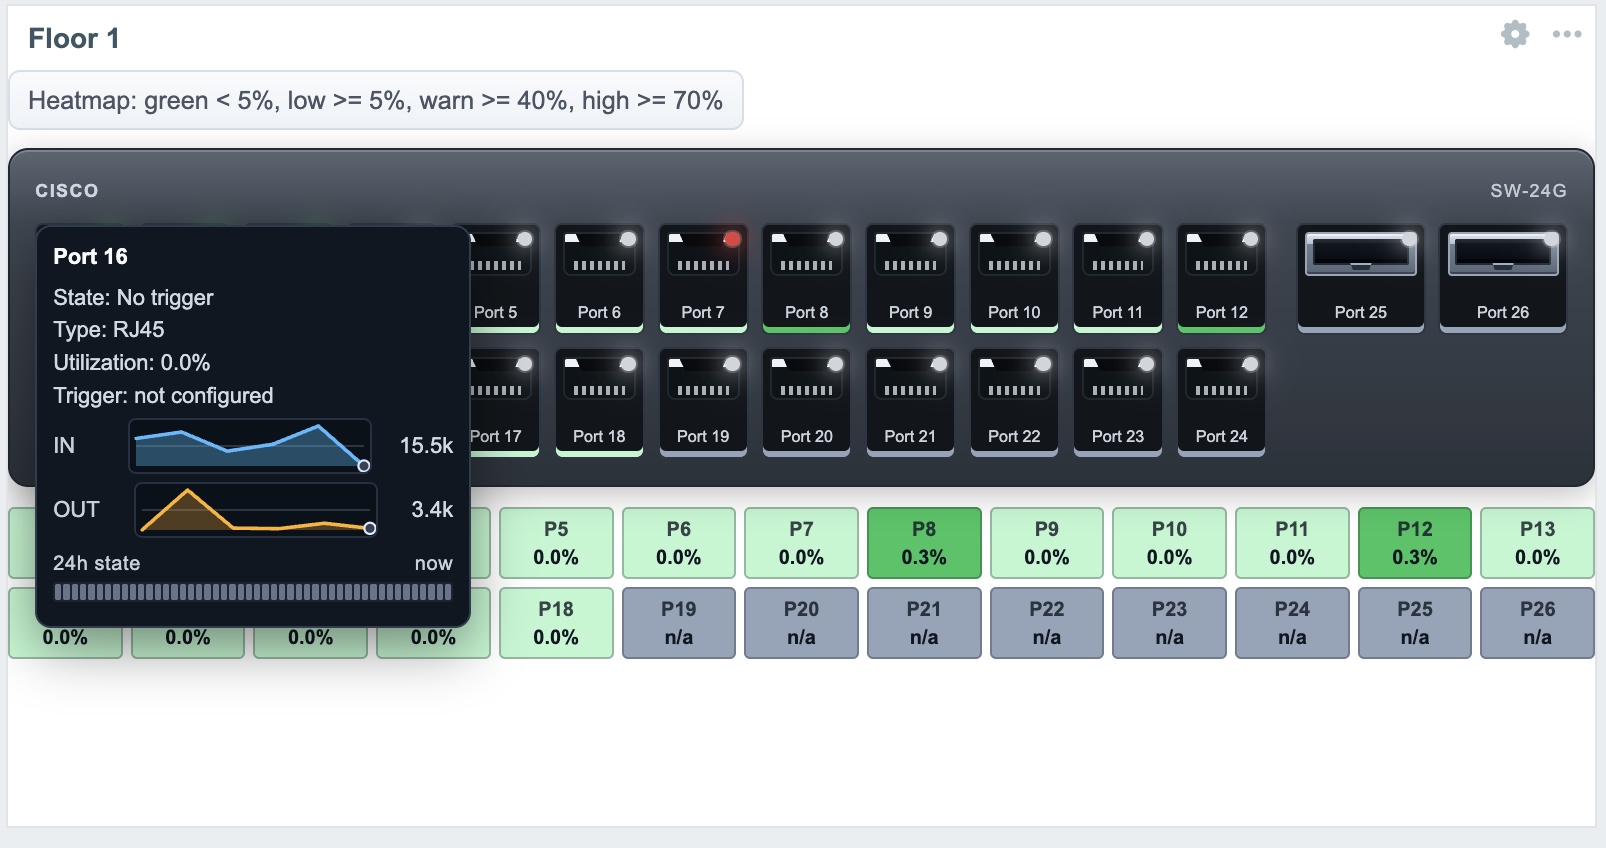
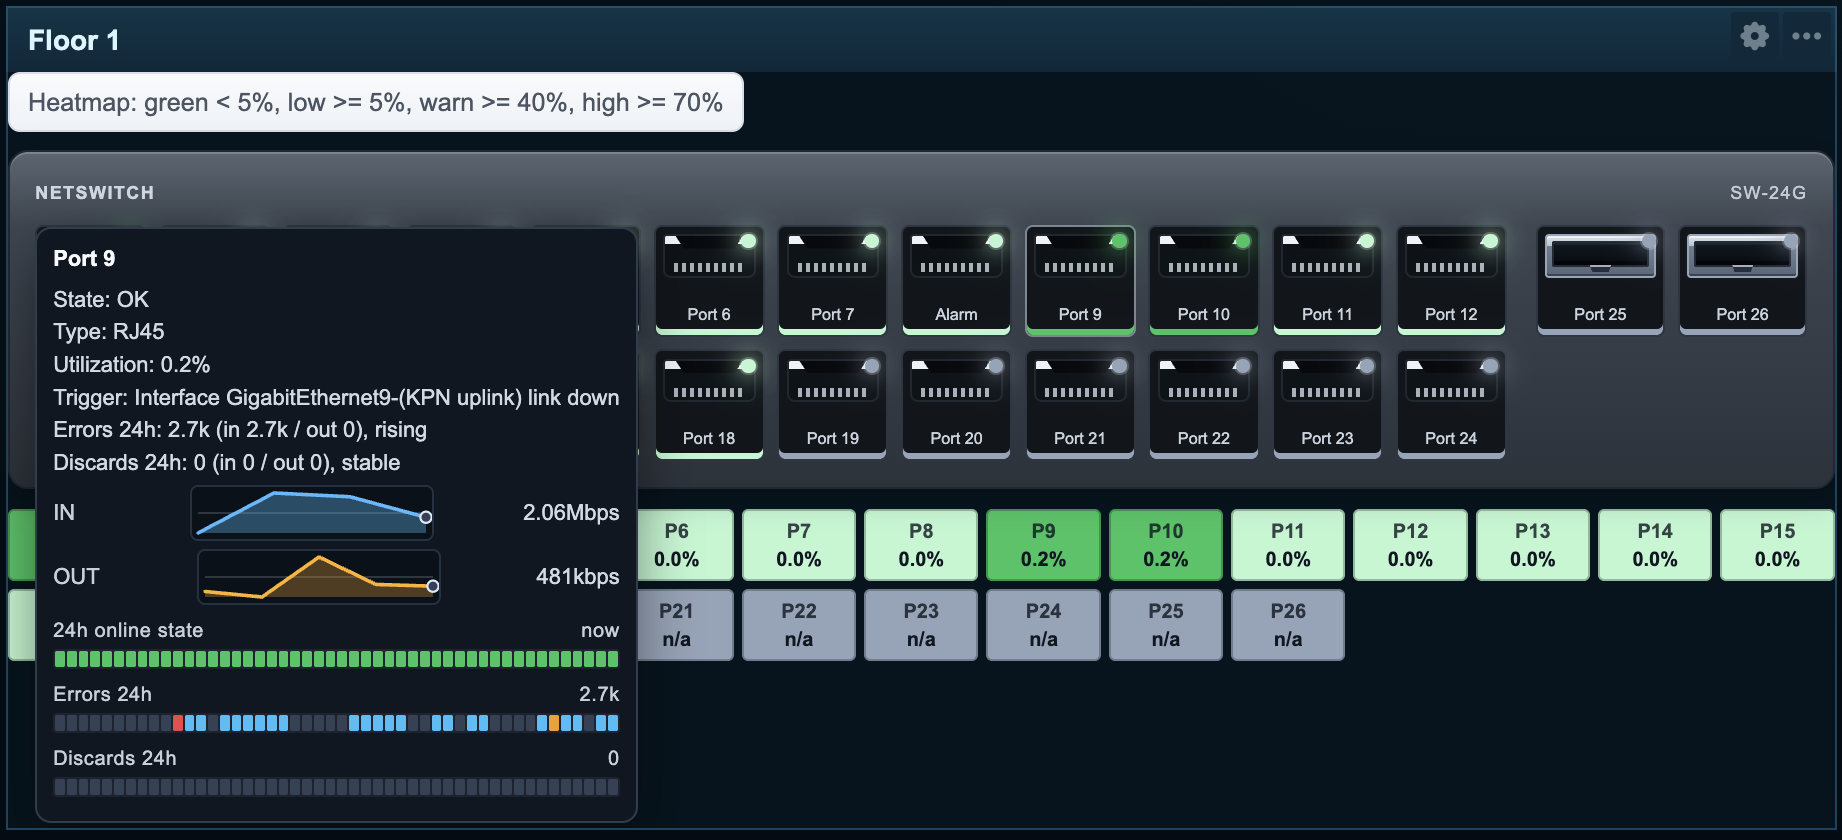
fix: restore overlay toggle behavior and update widget image

diff --git a/assets/js/widget.edit.js b/assets/js/widget.edit.js
@@ -636,7 +636,7 @@
 
 		insertSection('traffic', 'Traffic Patterns', 'Traffic in item pattern');
 		insertSection('errors', 'Error and Discard Patterns', 'Errors in item pattern');
-		insertSection('util', 'Utilization Settings', 'Port color mode');
+		insertSection('util', 'Utilization Settings', 'Show utilization overlay');
 		insertSection('layout', 'Device Layout', 'Brand');
 	}
 

diff --git a/views/widget.view.php b/views/widget.view.php
@@ -103,7 +103,6 @@ if (!empty($data['access_denied'])) {
 
 $columns = max(1, (int) ($data['ports_per_row'] ?? 12));
 $row_count = max(1, (int) ($data['row_count'] ?? 1));
-$port_color_mode = (int) ($data['port_color_mode'] ?? 0);
 $utilization_overlay_enabled = (int) ($data['utilization_overlay_enabled'] ?? 1);
 $show_utilization_overlay = ($utilization_overlay_enabled === 1);
 $traffic_unit_mode = (int) ($data['traffic_unit_mode'] ?? 0);
@@ -158,6 +157,7 @@ $make_card = static function(array $port) use ($show_utilization_overlay, $util_
 	$util_color = isset($port['utilization_color']) && is_string($port['utilization_color'])
 		? (string) $port['utilization_color']
 		: $util_color_for($utilization);
+	$display_color = $show_utilization_overlay ? $util_color : $active_color;
 
 	if (empty($port['has_trigger'])) {
 		$state = _('No trigger');
@@ -361,10 +361,10 @@ $make_card = static function(array $port) use ($show_utilization_overlay, $util_
 						->addClass('port24-led')
 						->setAttribute(
 							'style',
-							'background: '.$active_color.';'
+							'background: '.$display_color.';'
 							.'box-shadow:0 0 0 1px rgba(255,255,255,.2),'
-							.'0 0 calc(12px * var(--port24-scale)) '.$active_color.','
-							.'0 0 calc(20px * var(--port24-scale)) '.$active_color.';'
+							.'0 0 calc(12px * var(--port24-scale)) '.$display_color.','
+							.'0 0 calc(20px * var(--port24-scale)) '.$display_color.';'
 						)
 				)
 				->addItem((new CDiv($port['name']))->addClass('port24-label'));
@@ -508,12 +508,12 @@ $make_card = static function(array $port) use ($show_utilization_overlay, $util_
 
 	$card
 		->addClass('port24-card')
-		->setAttribute('style', '--port-color: '.$active_color.';')
+		->setAttribute('style', '--port-color: '.$display_color.';')
 		->setAttribute('data-port-name', (string) $port['name']);
 	if ($show_utilization_overlay) {
 		$card
 			->addClass('port24-heatmap')
-			->setAttribute('style', '--port-color: '.$active_color.'; --util-c: '.$util_color.';');
+			->setAttribute('style', '--port-color: '.$display_color.'; --util-c: '.$util_color.';');
 	}
 
 	if (!empty($port['hostid'])) {

diff --git a/actions/WidgetView.php b/actions/WidgetView.php
@@ -44,14 +44,6 @@ class WidgetView extends CControllerDashboardWidgetView {
 		$out_discards_pattern = $this->sanitizeItemPattern((string) ($this->fields_values['out_discards_item_pattern'] ?? self::DEFAULT_OUT_DISCARDS_PATTERN), self::DEFAULT_OUT_DISCARDS_PATTERN);
 		$speed_pattern = substr($speed_pattern, 0, self::MAX_SPEED_PATTERN_LENGTH);
 		$speed_pattern_alt = $this->getAlternateSpeedPattern($speed_pattern);
-		$port_color_mode_raw = $this->fields_values['port_color_mode'] ?? 0;
-		if (is_array($port_color_mode_raw)) {
-			$port_color_mode_raw = reset($port_color_mode_raw);
-		}
-		$port_color_mode_int = (int) $port_color_mode_raw;
-		$port_color_mode = ($port_color_mode_int === 1 || (string) $port_color_mode_raw === 'utilization')
-			? 1
-			: 0;
 		$utilization_overlay_enabled = ((int) ($this->fields_values['utilization_overlay_enabled'] ?? 1)) === 1 ? 1 : 0;
 		$util_low_threshold = $this->clampFloat($this->extractFloat($this->fields_values['utilization_low_threshold'] ?? 5.0), 0.0, 100.0);
 		$util_warn_threshold = $this->clampFloat($this->extractFloat($this->fields_values['utilization_warn_threshold'] ?? 40.0), 0.0, 100.0);
@@ -101,7 +93,6 @@ class WidgetView extends CControllerDashboardWidgetView {
 					'in_discards_item_pattern' => $in_discards_pattern,
 					'out_discards_item_pattern' => $out_discards_pattern,
 					'speed_item_pattern' => $speed_pattern,
-				'port_color_mode' => $port_color_mode,
 				'utilization_overlay_enabled' => $utilization_overlay_enabled,
 				'utilization_low_threshold' => $util_low_threshold,
 				'utilization_warn_threshold' => $util_warn_threshold,
@@ -286,7 +277,6 @@ class WidgetView extends CControllerDashboardWidgetView {
 				'in_discards_item_pattern' => $in_discards_pattern,
 				'out_discards_item_pattern' => $out_discards_pattern,
 				'speed_item_pattern' => $speed_pattern,
-				'port_color_mode' => $port_color_mode,
 				'utilization_overlay_enabled' => $utilization_overlay_enabled,
 				'utilization_low_threshold' => $util_low_threshold,
 				'utilization_warn_threshold' => $util_warn_threshold,

diff --git a/views/widget.edit.php b/views/widget.edit.php
@@ -18,7 +18,6 @@ $form->addField(new CWidgetFieldTextBoxView($data['fields']['in_errors_item_patt
 $form->addField(new CWidgetFieldTextBoxView($data['fields']['out_errors_item_pattern']));
 $form->addField(new CWidgetFieldTextBoxView($data['fields']['in_discards_item_pattern']));
 $form->addField(new CWidgetFieldTextBoxView($data['fields']['out_discards_item_pattern']));
-$form->addField(new CWidgetFieldSelectView($data['fields']['port_color_mode']));
 $form->addField(new CWidgetFieldSelectView($data['fields']['utilization_overlay_enabled']));
 $form->addField(new CWidgetFieldTextBoxView($data['fields']['speed_item_pattern']));
 $form->addField(new CWidgetFieldTextBoxView($data['fields']['utilization_low_threshold']));

diff --git a/includes/WidgetForm.php b/includes/WidgetForm.php
@@ -66,12 +66,6 @@ class WidgetForm extends CWidgetForm {
 				->setDefault(self::DEFAULT_OUT_DISCARDS_PATTERN)
 		);
 		$this->addField(
-			(new CWidgetFieldSelect('port_color_mode', _('Port color mode'), [
-				0 => _('Trigger state'),
-				1 => _('Utilization heatmap')
-			]))->setDefault(0)
-		);
-		$this->addField(
 			(new CWidgetFieldSelect('utilization_overlay_enabled', _('Show utilization overlay'), [
 				0 => _('No'),
 				1 => _('Yes')
